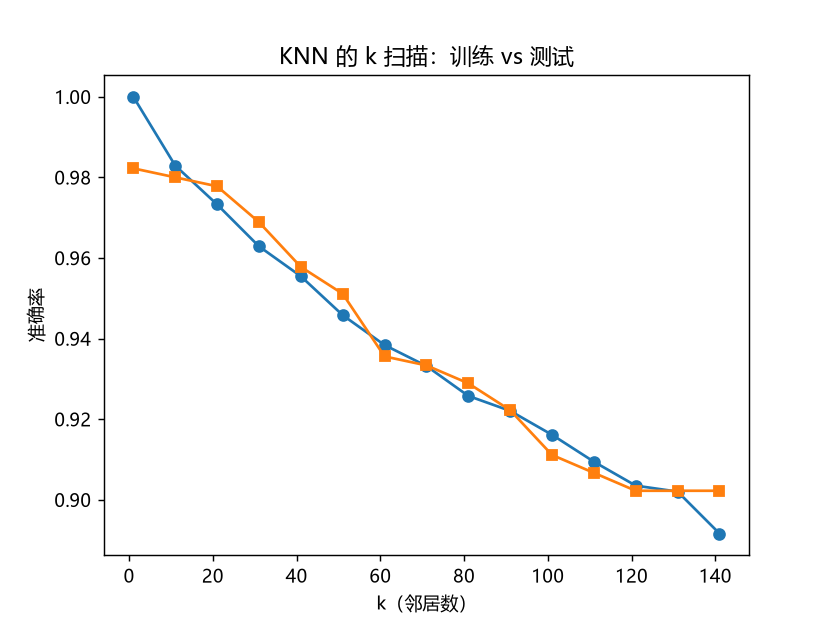
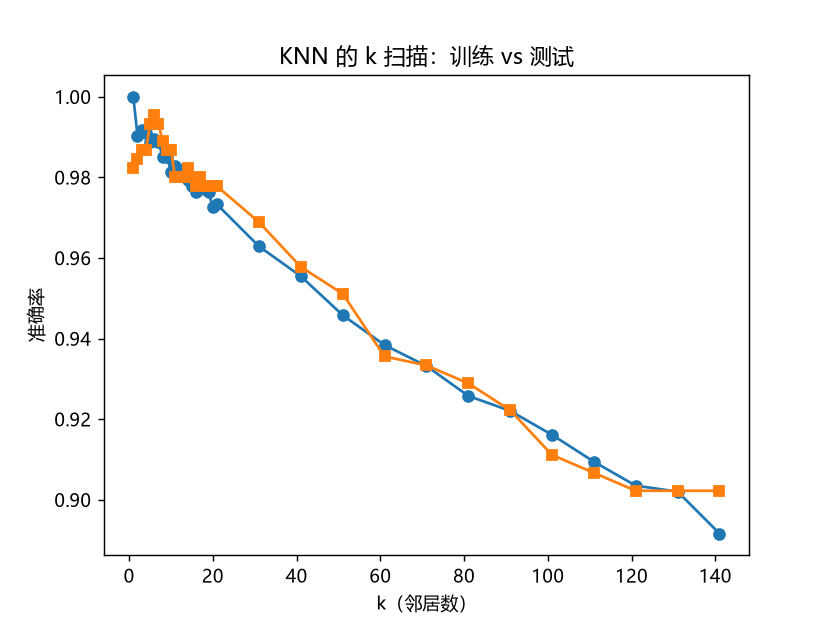
W3D4：LLM原理四抽屉+SFT/RLHF笔记

Changed region(s): [[0.1562, 0.1522, 0.2812, 0.3349]]

diff --git a/week03/01_digits.py b/week03/01_digits.py
@@ -81,7 +81,7 @@ for k in (1, 3, 5, 15, 50, 150):
     print(f"{k:>4} {tr:>10.4f} {te:>10.4f}  {v}")
 
 
-ks = list(range(1, 151, 10))
+ks = list(range(1, 21)) + list(range(21, 151, 10))
 train_scores, test_scores = [], []
 for k in ks:
     m = KNeighborsClassifier(n_neighbors=k)

diff --git a/notes/W3.md b/notes/W3.md
@@ -39,8 +39,30 @@ train_test_split 的工作是"从 1797 张里随机抽 25% 当考卷"。"随机"
 ## 投毒实验结果
 （你自己填：y_train[0] 改成 3 后，k=1 的测试准确率从 __ 掉到 __，k=5 从 __ 到 __）
 
-## digits 四问
-Q1: （你的话）
-Q2: （你的话）
-Q3: （你的话）
-Q4: （你的话）
+## 11-05 LLM 四抽屉机制版（用自己的话，每个 ≤30 字）
+- token→模型眼里的世界：文本先被切成 token（编号），每个编号去一张巨大的嵌入表里换成一个向量；语义相近的词，向量在空间里距离也近。从此"意义"变成了"几何位置"，后面的一切计算都是向量运算。
+
+关键得分点：编号→向量（查表）+ 语义=距离。少了后半句，embedding 就只是"编码格式"，没答到"为什么需要它"。
+
+- temperature 到底在调什么：模型每一步的输出本来是一个覆盖全词表的概率分布。temperature 是采样前的一个除数：高温把分布压平（冷门词概率上升→输出更野、更多样），低温把分布削尖（趋近 0 时永远取最高概率词→输出稳定可复现）。
+
+关键得分点：它调的是分布的形状，不是"结果"。行为描述（"值大波动大"）只是现象，"按概率挑 vs 按最高分挑"才是机制。
+
+- 窗口上限的物理原因：注意力机制里，每个 token 都要和序列中所有 token 两两计算匹配分数，计算量和中间结果的显存占用随序列长度平方增长：长度 ×2，代价 ×4。窗口上限就是这条平方曲线撞上硬件/成本天花板的位置。
+
+关键得分点：
+
+平方增长这个词必须出现（这就是 Q·Kᵀ 那一步的代价）
+和参数量无关——参数量是固定开销，同一个模型可以配 8K 也可以配 128K 窗口
+推论（能想到算优秀）：所以才有各种"省注意力"的架构变体，以及 RAG 存在的理由之一——塞进去的每个字都在平方账单上摊一笔
+
+- 幻觉的机制根源：预训练的优化目标只有一个：预测出统计上最可能的下一个 token。"像样"被极致优化了，"真实"从来不在考纲里。所以模型胡说不是偶尔失灵，而是它在忠实地完成它的目标——把话说得像话。SFT/RLHF 只是让它更会"像人类满意那样说"，并没有给它装上一本真相字典。
+
+关键得分点："目标里没有真实这一项"——幻觉是目标的副产品，不是 bug。
+
+## 预训练/SFT/RLHF 三兄弟各干了啥（各一句话）
+预训练：读遍互联网，把"语言和世界统计规律"压进参数——学会说话（知道下一个字接什么最像样）
+SFT：用人工写的"问答示范"教它答话——从"续写文章"改造成"回应提问"的姿态（学的是模式/格式，不是知识）
+RLHF：因为"什么算好回答"写不出标准答案，就让人当裁判做比较（A 比 B 好），训练模型讨好裁判——学会说人爱听的话
+## 今晚最意外的一个认知
+（写今天任何一刻"啊？原来是这样"的瞬间）
